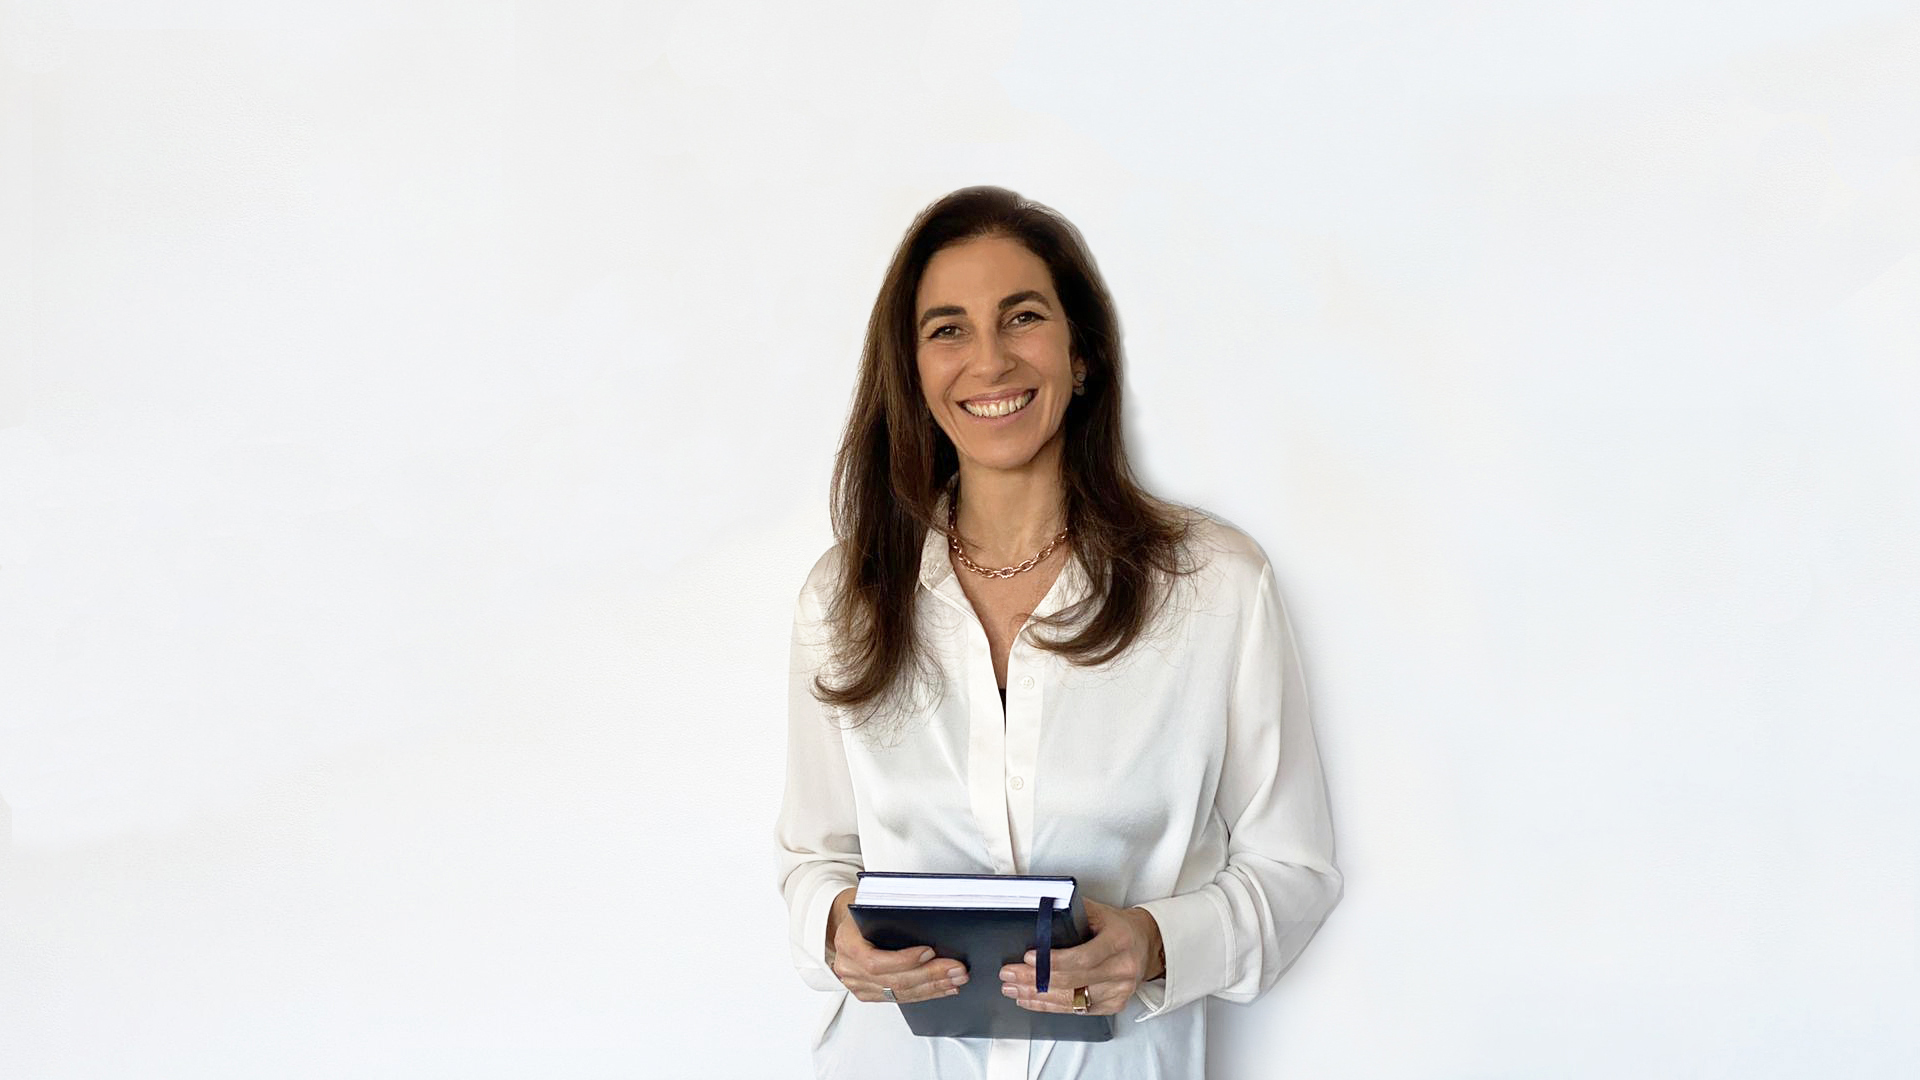
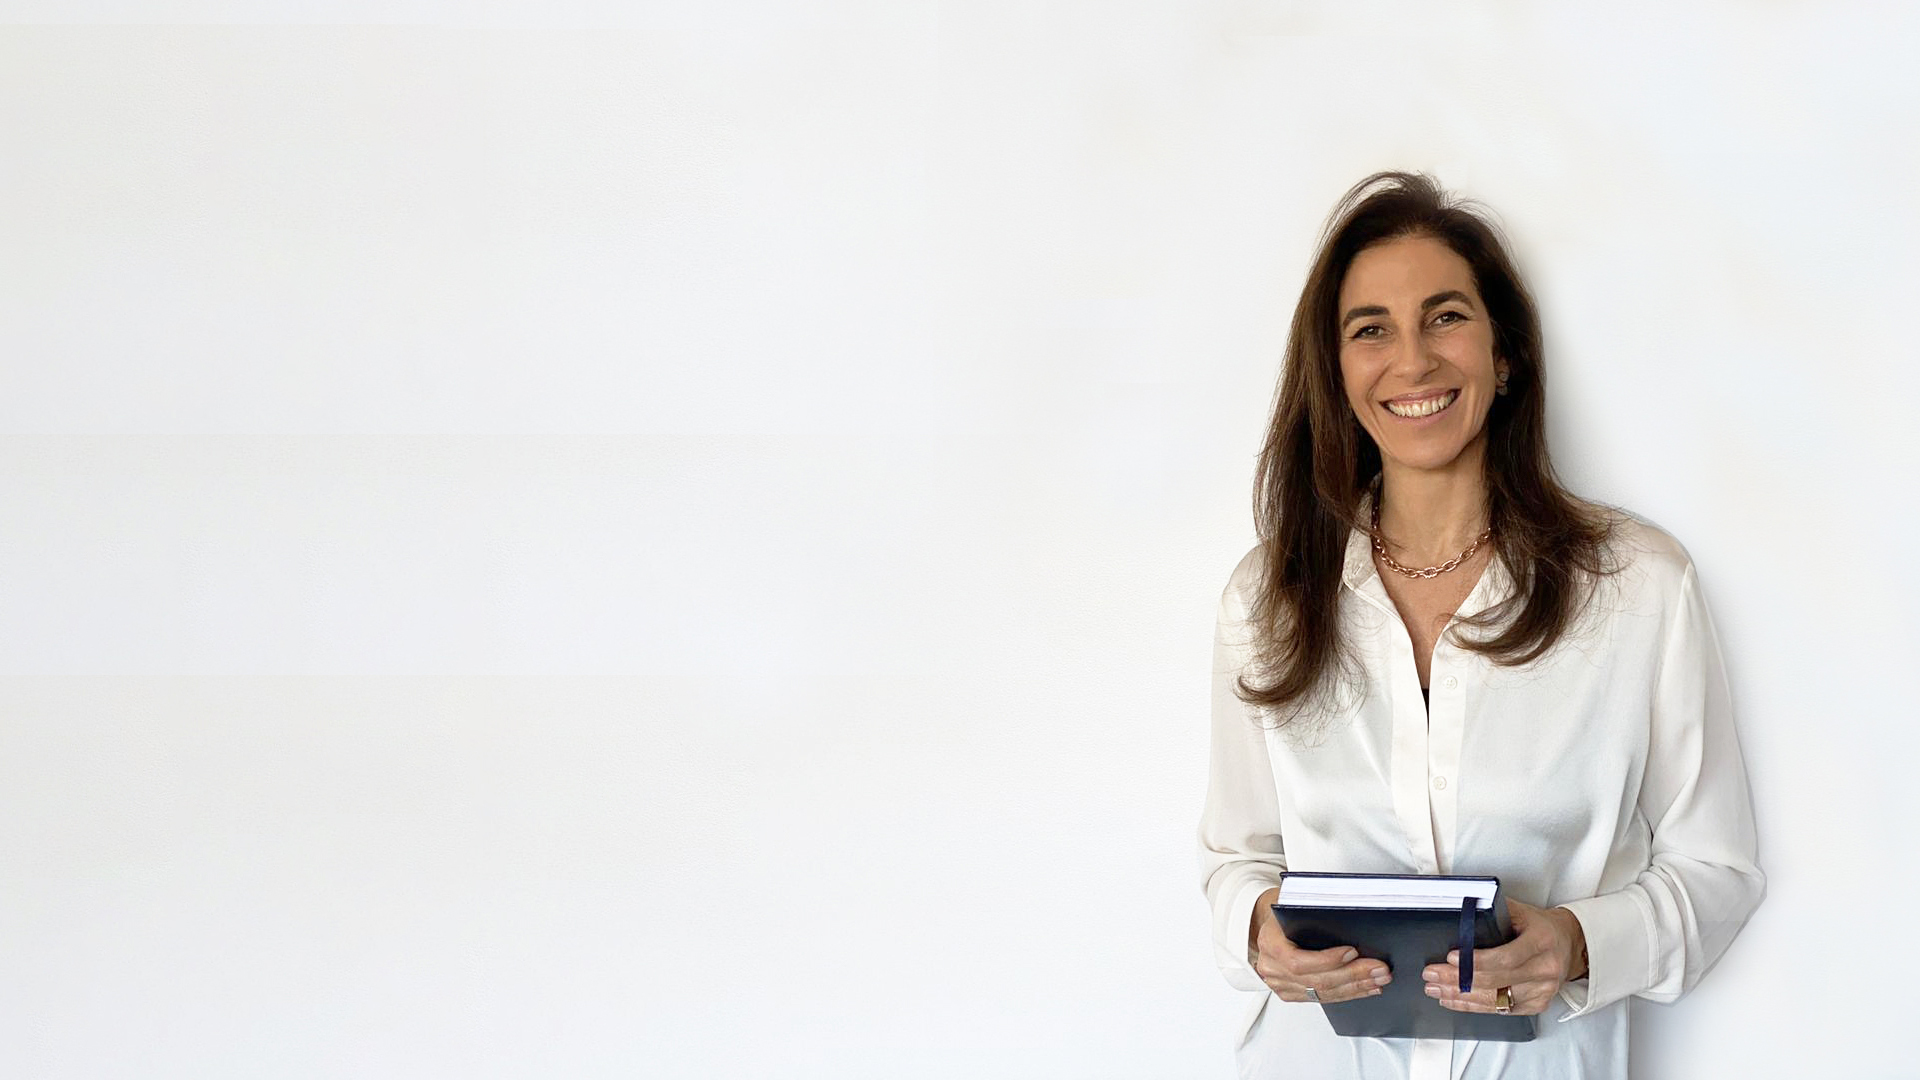
Cambio foto slider principal con paola a la derecha

Changed region(s): [[0.4062, 0.1528, 0.9375, 1.0], [0.4062, 0.9472, 0.4375, 0.9778]]

diff --git a/index.html b/index.html
@@ -162,7 +162,7 @@
                             <div class="bk-hover mb--40">
                                 <h5 class="heading heading-h5 text-white" style="font-size: 23px;"><span style="color: black;"> Hola, estoy aquí para ayudarte</span></h5>
                                 <div class="bkseparator--20"></div>
-                                <p class="bk_pra line-height-1-63 text-white text-left"   id="rita"><span style="color: black; margin-bottom: 12px;"> Email - pchurba@gmail.com</span></p>
+                                <p class="bk_pra line-height-1-63 text-white text-left"   id="rita"><span style="color: black;"> Email - pchurba@gmail.com</span></p><br>
                                 <p class="bk_pra line-height-1-63 text-white text-left"  id="rita"><span style="color: black;">Telefono - +54 911 5055 4737</span></p>
                             </div>
                             <ul class="social-icon text-left tooltip-layout icon-size-large">
